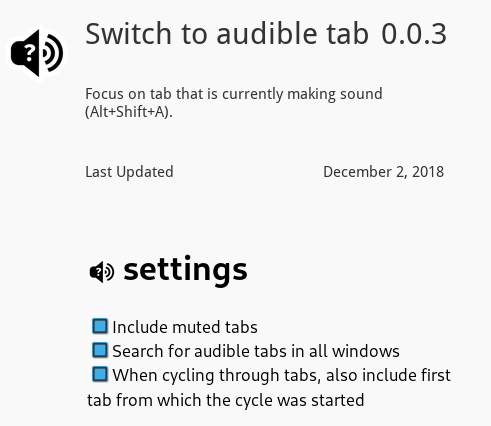
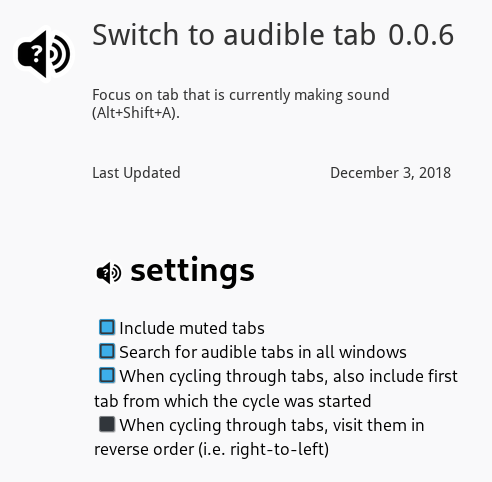
updated version & screenshot

diff --git a/README.md b/README.md
@@ -12,4 +12,6 @@ If there are no audible tabs, the addon will do nothing. Tabs that are muted by 
 
 If there are audible tabs belonging to other windows, these windows will be switched too (this can be opted off as well).
 
+It is also possible to control the order in which the tabs will be visited: available options are 'left-to-right' and 'right-to-left'. This will only make difference if there are more than two tabs in a cycle.
+
 **Alt+Shift+A** is the hotkey that can be used instead of the toolbar button.
